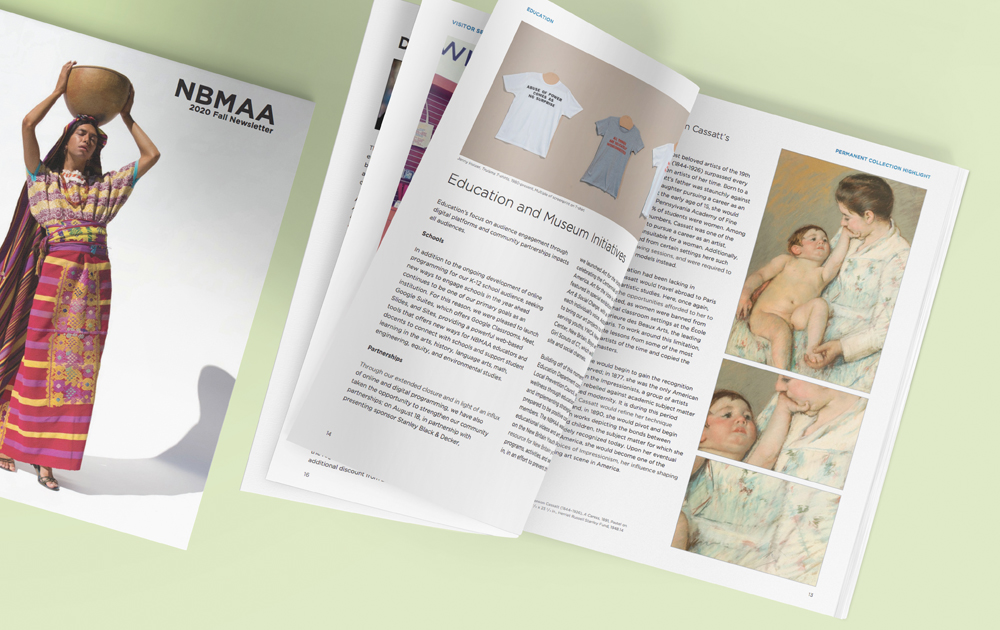
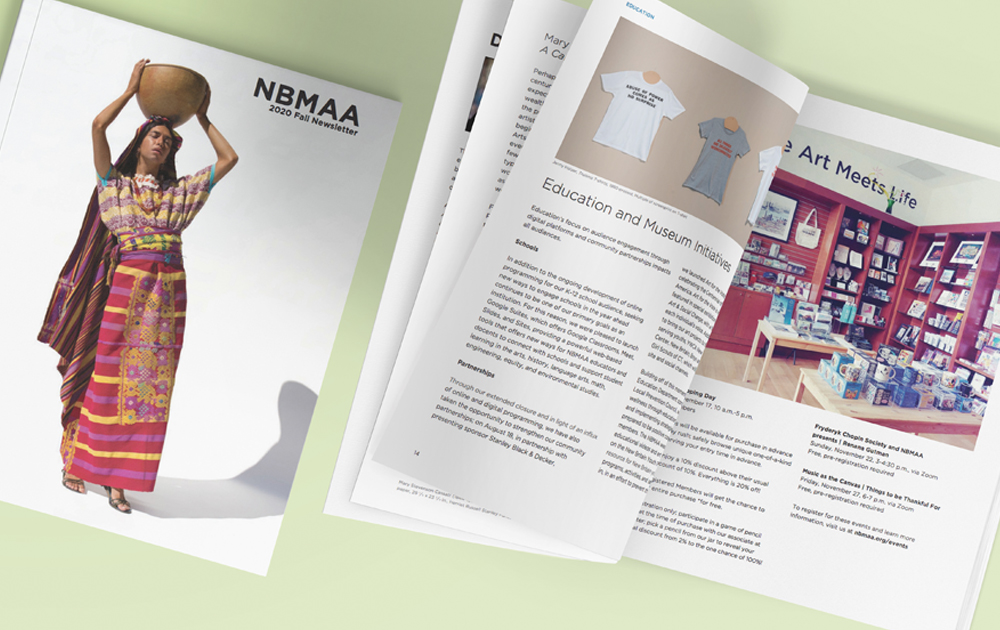
spacing bug resolved

diff --git a/resources/css/writing-samples.css b/resources/css/writing-samples.css
@@ -55,7 +55,6 @@ html,body {
 
   
   h2 {
-    padding-bottom: 5px;
     padding-top: 4vh;
     font-size: 2rem;
   }
@@ -77,7 +76,9 @@ html,body {
   .header {
     background-image: url(../../resources/media/newsletter.jpg);
     background-size: 100%;
-    /*background-color: rgb(187, 218, 179);*/
+    background-position: center;
+    background-repeat: no-repeat;
+    background-size: cover;
     margin-bottom: 2vw;
     height: 40vh;
     box-shadow: inset 0 0 0 2000px rgba(187, 218, 179, .8);
@@ -91,23 +92,15 @@ html,body {
   }
 
   .container {
-    padding: 30px;
+    padding: 0px 40px;
   }
 
   .writing-sample {
     background-color:rgb(245, 245, 245);
     padding: 3% 3% 3% 3%;
     margin: 1% 8% 5% 5%;
-    display: flex;
-    flex-wrap: wrap;
-    justify-content: space-around;
-    justify-self: center;
-    gap: 4em;
   }
 
-  .child {
-    width: 400px;
-  }
 
   .writing-sample p {
     font-family: Georgia, 'Times New Roman', Times, serif;

diff --git a/newsletters.html b/newsletters.html
@@ -71,8 +71,6 @@
                 leading voices of Impressionism, her influence shaping
                 the growing art scene in America. </p>
             </div>
-    </div>
-    <div class="container">
         <h2>Social Events</h2>
             <p class="overview">
                 The following are social event listings written for the Winter 2020 Newsletter.
